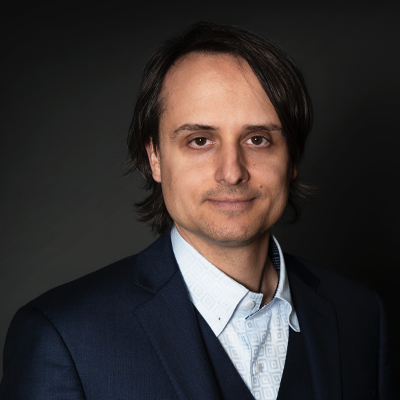
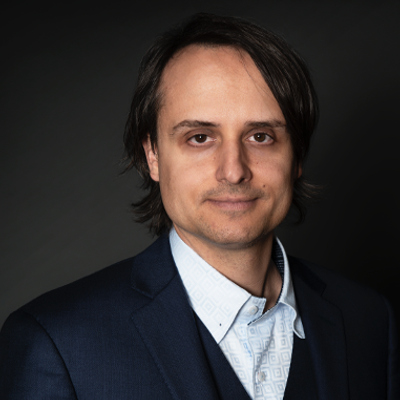
fix: scale mark, reuben, luke, restore hr

diff --git a/src/components/header.js b/src/components/header.js
@@ -43,28 +43,31 @@ const HeaderSection = ({ className }) => (
     render={data => {
       const imageData = data.desktop.childImageSharp.fluid;
       return (
-        <BackgroundImage
-          Tag="section"
-          className={className}
-          fluid={imageData}
-          backgroundColor={`#040e18`}
-        >
-          <Container>
-            <Logo>8ALPHA</Logo>
-            <Description>GLOBAL TECHNOLOGY & FINANCIAL ADVISORS</Description>
-            <Tagline>
-              <div>THE EDGE FOR</div>
-              <div>AMBITIOUS INNOVATORS</div>
-            </Tagline>
-          </Container>
-        </BackgroundImage>
+        <div>
+          <BackgroundImage
+            Tag="section"
+            className={className}
+            fluid={imageData}
+            backgroundColor={`#040e18`}
+          >
+            <Container>
+              <Logo>8ALPHA</Logo>
+              <Description>GLOBAL TECHNOLOGY & FINANCIAL ADVISORS</Description>
+              <Tagline>
+                <div>THE EDGE FOR</div>
+                <div>AMBITIOUS INNOVATORS</div>
+              </Tagline>
+            </Container>
+          </BackgroundImage>
+          <hr />
+        </div>
       );
     }}
   />
 );
 
 HeaderSection.propTypes = {
-  className: PropTypes.string,
+  className: PropTypes.string
 };
 
 const Header = styled(HeaderSection)`

diff --git a/src/components/about-us.js b/src/components/about-us.js
@@ -3,7 +3,7 @@ import React from "react";
 import {
   Container,
   SectionHeading,
-  SectionParagraph,
+  SectionParagraph
 } from "../components/styled";
 
 const AboutUs = () => (
